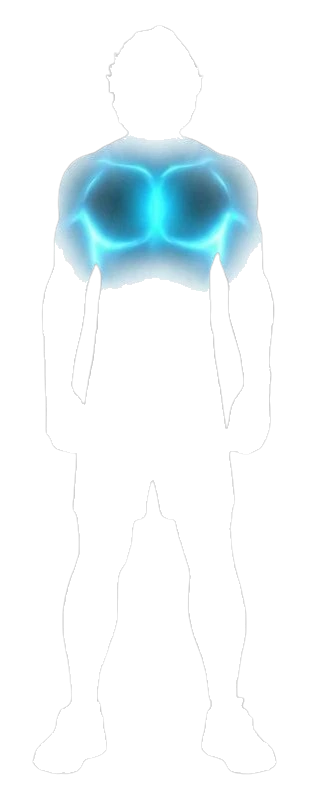
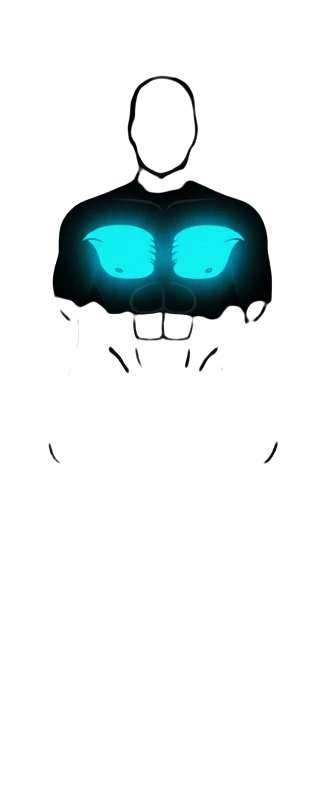
feat: update chest overlay image for quiz
Add new version focusing on upper torso with highlighted blue cyan muscles.

diff --git a/app/quiz/page.tsx b/app/quiz/page.tsx
@@ -1301,6 +1301,7 @@ export default function QuizPage() {
             </div>
           </div>
         )
+      // </CHANGE>
       case 6:
         return (
           <div className="space-y-8">
@@ -1328,14 +1329,8 @@ export default function QuizPage() {
                   <img
                     src="/images/chest.webp"
                     alt="Peito destacado"
-                    className="absolute top-0 left-0 w-full h-full z-20 pointer-events-none"
-                    style={{
-                      mixBlendMode: "lighten",
-                      filter: "brightness(1.5) contrast(2)",
-                      objectFit: "cover",
-                      transform: "scale(1.2)",
-                      transformOrigin: "center center",
-                    }}
+                    className="absolute top-0 left-0 w-full h-full object-contain z-20 pointer-events-none"
+                    style={{ mixBlendMode: "screen" }}
                   />
                 )}
 
@@ -1343,14 +1338,8 @@ export default function QuizPage() {
                   <img
                     src="/images/arms.webp"
                     alt="Braços destacados"
-                    className="absolute top-0 left-0 w-full h-full z-20 pointer-events-none"
-                    style={{
-                      mixBlendMode: "lighten",
-                      filter: "brightness(1.5) contrast(2)",
-                      objectFit: "cover",
-                      transform: "scale(1.2)",
-                      transformOrigin: "center center",
-                    }}
+                    className="absolute top-0 left-0 w-full h-full object-contain z-20 pointer-events-none"
+                    style={{ mixBlendMode: "screen" }}
                   />
                 )}
 
@@ -1358,14 +1347,8 @@ export default function QuizPage() {
                   <img
                     src="/images/abs.webp"
                     alt="Abdômen destacado"
-                    className="absolute top-0 left-0 w-full h-full z-20 pointer-events-none"
-                    style={{
-                      mixBlendMode: "lighten",
-                      filter: "brightness(1.5) contrast(2)",
-                      objectFit: "cover",
-                      transform: "scale(1.2)",
-                      transformOrigin: "center center",
-                    }}
+                    className="absolute top-0 left-0 w-full h-full object-contain z-20 pointer-events-none"
+                    style={{ mixBlendMode: "screen" }}
                   />
                 )}
 
@@ -1373,14 +1356,8 @@ export default function QuizPage() {
                   <img
                     src="/images/legs.webp"
                     alt="Pernas destacadas"
-                    className="absolute top-0 left-0 w-full h-full z-20 pointer-events-none"
-                    style={{
-                      mixBlendMode: "lighten",
-                      filter: "brightness(1.5) contrast(2)",
-                      objectFit: "cover",
-                      transform: "scale(1.2)",
-                      transformOrigin: "center center",
-                    }}
+                    className="absolute top-0 left-0 w-full h-full object-contain z-20 pointer-events-none"
+                    style={{ mixBlendMode: "screen" }}
                   />
                 )}
 
@@ -1388,14 +1365,8 @@ export default function QuizPage() {
                   <img
                     src="/images/fullbody.webp"
                     alt="Corpo inteiro destacado"
-                    className="absolute top-0 left-0 w-full h-full z-20 pointer-events-none"
-                    style={{
-                      mixBlendMode: "lighten",
-                      filter: "brightness(1.5) contrast(2)",
-                      objectFit: "cover",
-                      transform: "scale(1.2)",
-                      transformOrigin: "center center",
-                    }}
+                    className="absolute top-0 left-0 w-full h-full object-contain z-20 pointer-events-none"
+                    style={{ mixBlendMode: "screen" }}
                   />
                 )}
 
@@ -1403,8 +1374,8 @@ export default function QuizPage() {
                   <img
                     src="/images/wchest.webp"
                     alt="Peito destacado"
-                    className="absolute top-0 left-0 w-full h-full z-20 pointer-events-none"
-                    style={{ mixBlendMode: "lighten", filter: "brightness(1.5) contrast(2)" }}
+                    className="absolute top-0 left-0 w-full h-full object-contain z-20 pointer-events-none"
+                    style={{ mixBlendMode: "screen" }}
                   />
                 )}
 
@@ -1412,8 +1383,8 @@ export default function QuizPage() {
                   <img
                     src="/images/warms.webp"
                     alt="Braços destacados"
-                    className="absolute top-0 left-0 w-full h-full z-20 pointer-events-none"
-                    style={{ mixBlendMode: "lighten", filter: "brightness(1.5) contrast(2)" }}
+                    className="absolute top-0 left-0 w-full h-full object-contain z-20 pointer-events-none"
+                    style={{ mixBlendMode: "screen" }}
                   />
                 )}
 
@@ -1421,8 +1392,8 @@ export default function QuizPage() {
                   <img
                     src="/images/wabs.webp"
                     alt="Abdômen destacado"
-                    className="absolute top-0 left-0 w-full h-full z-20 pointer-events-none"
-                    style={{ mixBlendMode: "lighten", filter: "brightness(1.5) contrast(2)" }}
+                    className="absolute top-0 left-0 w-full h-full object-contain z-20 pointer-events-none"
+                    style={{ mixBlendMode: "screen" }}
                   />
                 )}
 
@@ -1430,8 +1401,8 @@ export default function QuizPage() {
                   <img
                     src="/images/wlegs.webp"
                     alt="Pernas destacadas"
-                    className="absolute top-0 left-0 w-full h-full z-20 pointer-events-none"
-                    style={{ mixBlendMode: "lighten", filter: "brightness(1.5) contrast(2)" }}
+                    className="absolute top-0 left-0 w-full h-full object-contain z-20 pointer-events-none"
+                    style={{ mixBlendMode: "screen" }}
                   />
                 )}
 
@@ -1439,8 +1410,8 @@ export default function QuizPage() {
                   <img
                     src="/images/wfullbody.webp"
                     alt="Corpo inteiro destacado"
-                    className="absolute top-0 left-0 w-full h-full z-20 pointer-events-none"
-                    style={{ mixBlendMode: "lighten", filter: "brightness(1.5) contrast(2)" }}
+                    className="absolute top-0 left-0 w-full h-full object-contain z-20 pointer-events-none"
+                    style={{ mixBlendMode: "screen" }}
                   />
                 )}
               </div>
@@ -1723,6 +1694,7 @@ export default function QuizPage() {
                 <X className={`h-6 w-6 ${quizData.wantsSupplement === "nao" ? "text-lime-500" : "text-gray-500"}`} />
               </button>
             </div>
+            {/* </CHANGE> */}
             {quizData.wantsSupplement === "sim" && quizData.supplementType && (
               <div className="bg-lime-500/10 border border-lime-500 rounded-lg p-4 text-center">
                 <p className="text-lime-400 font-semibold">
@@ -1738,6 +1710,7 @@ export default function QuizPage() {
             )}
           </div>
         )
+      // </CHANGE>
 
       case 14:
         return (
